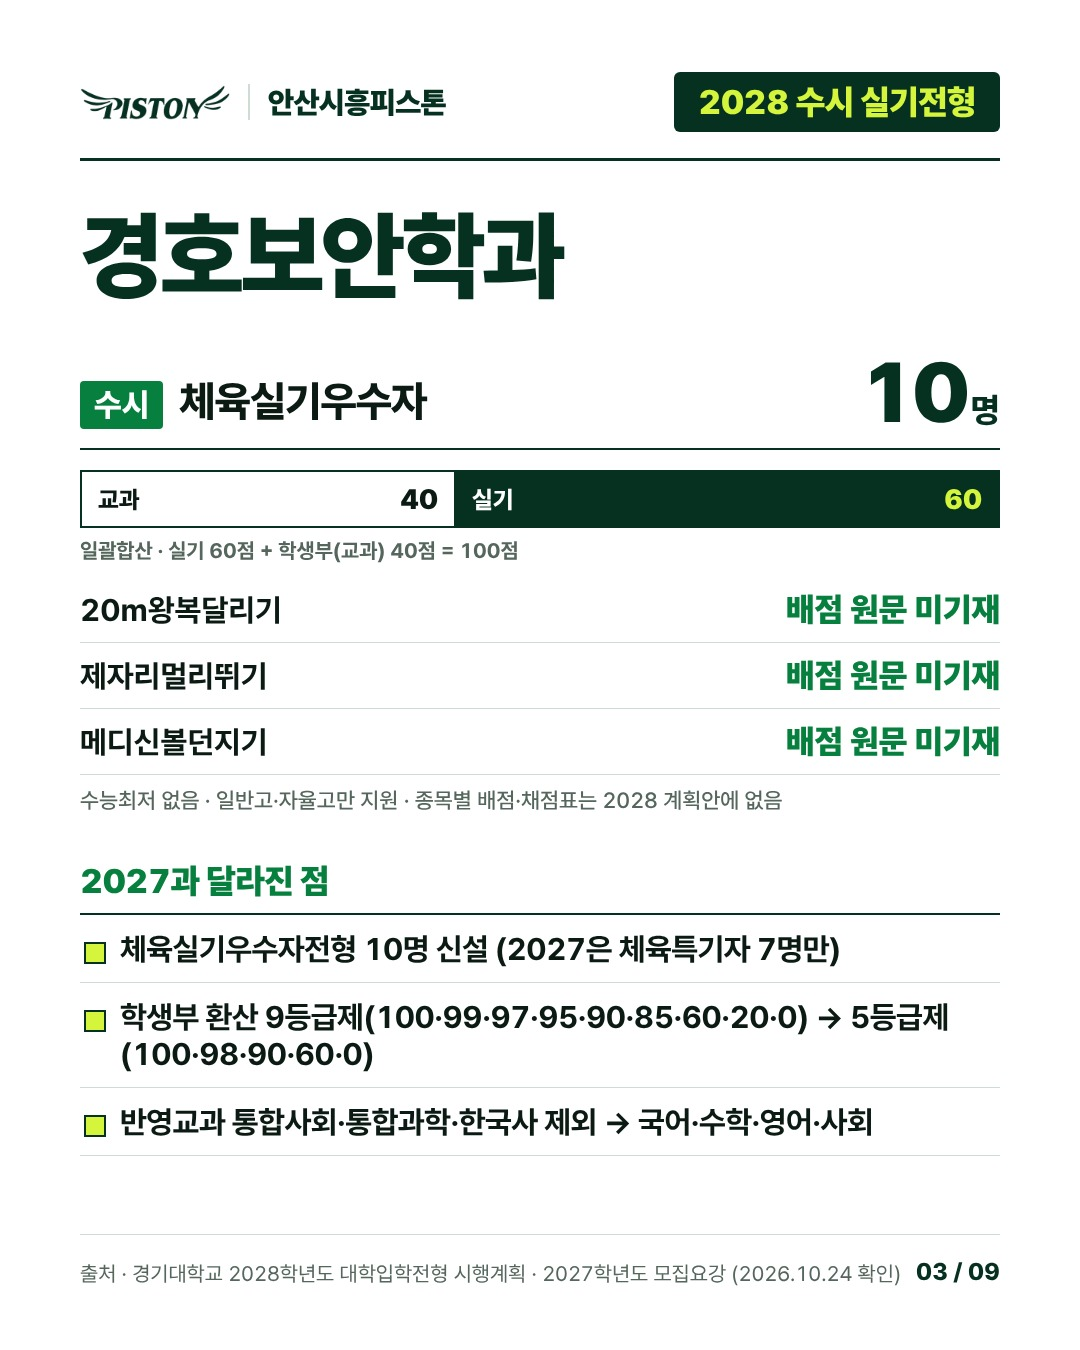
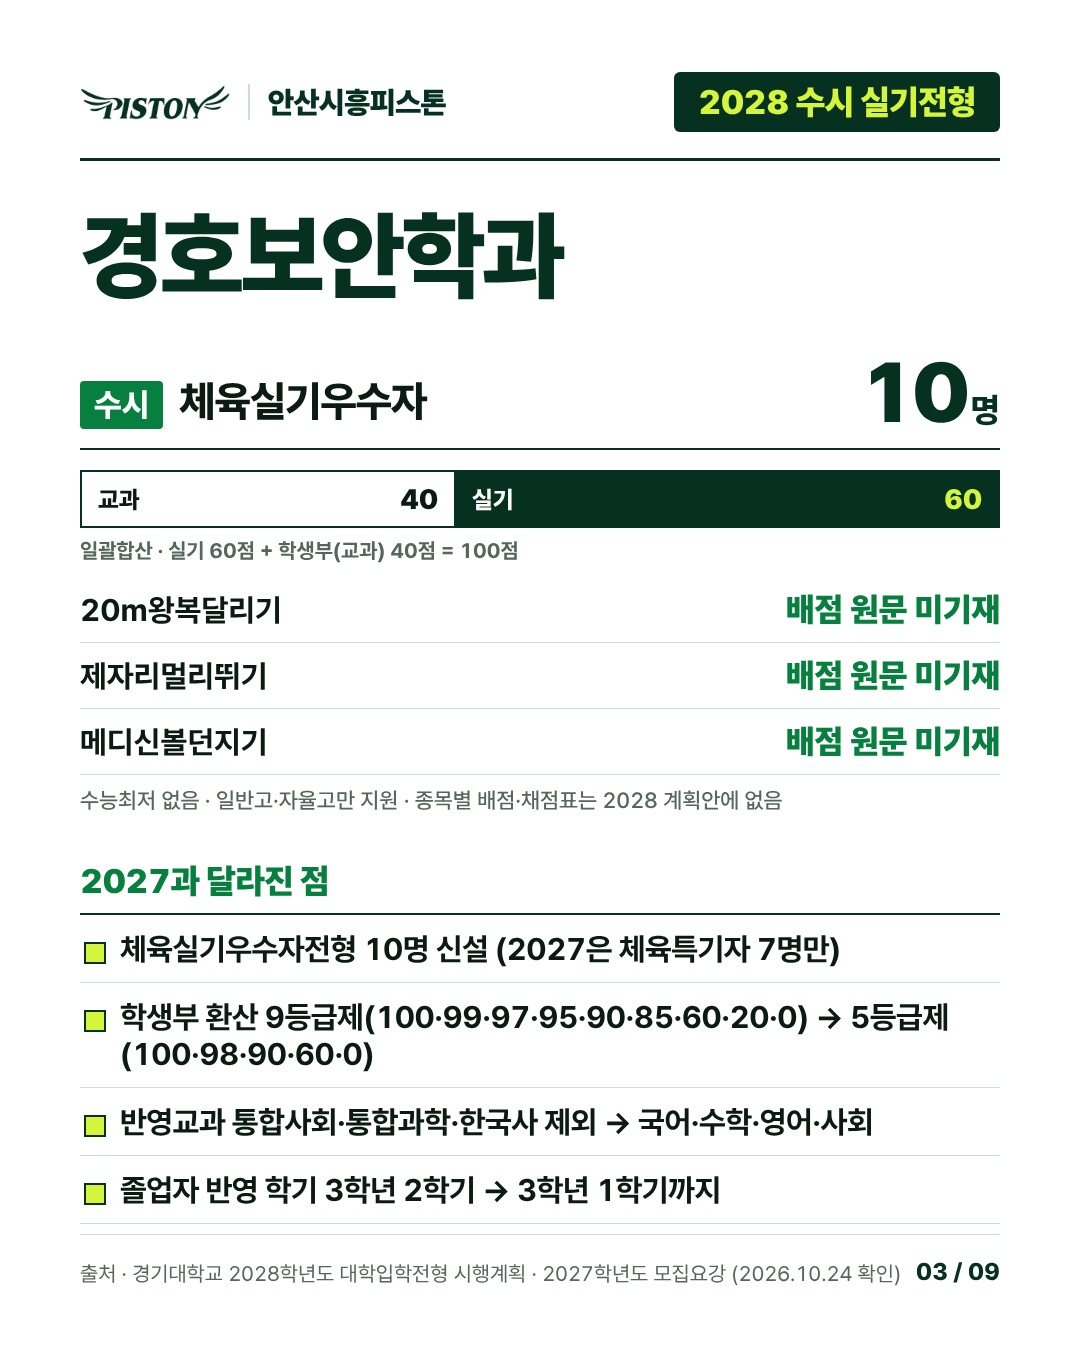
경기대 2028 카드 추가
Claude-Session: https://claude.ai/code/session_01ESvGERstcg2VfyZsGdWGeY

Changed region(s): [[0.0611, 0.8711, 0.6722, 0.9022]]

diff --git a/social/index.html b/social/index.html
@@ -5,6 +5,7 @@ section{border-top:2px solid #06301f;padding:18px 0 28px}h2{font-size:20px;margi
 <h1>2028 전형계획 카드 게시 일정</h1><p class="s">매일 19:00(한국시간)에 인스타 게시물·스토리로 자동 게시됩니다. 블로그 글은 각 세트의 blog.md.</p>
 <section><h2>2026-10-23 · 인천대학교 수시</h2><div class="m">보류 · <a href="out/inu-susi/blog.md">블로그 글</a> · <a href="out/inu-susi/caption.txt">캡션</a></div>
 <div class="row"><img src="out/inu-susi/post-1.jpg" loading="lazy" alt=""><img src="out/inu-susi/post-2.jpg" loading="lazy" alt=""><img src="out/inu-susi/post-3.jpg" loading="lazy" alt=""><img src="out/inu-susi/post-4.jpg" loading="lazy" alt=""><img src="out/inu-susi/post-5.jpg" loading="lazy" alt=""><img src="out/inu-susi/post-6.jpg" loading="lazy" alt=""><img src="out/inu-susi/post-7.jpg" loading="lazy" alt=""><img src="out/inu-susi/post-8.jpg" loading="lazy" alt=""><img src="out/inu-susi/story.jpg" loading="lazy" alt=""></div></section><section><h2>2026-10-23 · 인천대학교 정시</h2><div class="m">보류 · <a href="out/inu-jeongsi/blog.md">블로그 글</a> · <a href="out/inu-jeongsi/caption.txt">캡션</a></div>
-<div class="row"><img src="out/inu-jeongsi/post-1.jpg" loading="lazy" alt=""><img src="out/inu-jeongsi/post-2.jpg" loading="lazy" alt=""><img src="out/inu-jeongsi/post-3.jpg" loading="lazy" alt=""><img src="out/inu-jeongsi/post-4.jpg" loading="lazy" alt=""><img src="out/inu-jeongsi/post-5.jpg" loading="lazy" alt=""><img src="out/inu-jeongsi/post-6.jpg" loading="lazy" alt=""><img src="out/inu-jeongsi/post-7.jpg" loading="lazy" alt=""><img src="out/inu-jeongsi/story.jpg" loading="lazy" alt=""></div></section><section><h2>2026-10-23 · 가천대학교 수시</h2><div class="m">보류 · <a href="out/gachon-susi/blog.md">블로그 글</a> · <a href="out/gachon-susi/caption.txt">캡션</a></div>
-<div class="row"><img src="out/gachon-susi/post-1.jpg" loading="lazy" alt=""><img src="out/gachon-susi/post-2.jpg" loading="lazy" alt=""><img src="out/gachon-susi/post-3.jpg" loading="lazy" alt=""><img src="out/gachon-susi/post-4.jpg" loading="lazy" alt=""><img src="out/gachon-susi/post-5.jpg" loading="lazy" alt=""><img src="out/gachon-susi/post-6.jpg" loading="lazy" alt=""><img src="out/gachon-susi/post-7.jpg" loading="lazy" alt=""><img src="out/gachon-susi/story.jpg" loading="lazy" alt=""></div></section>
+<div class="row"><img src="out/inu-jeongsi/post-1.jpg" loading="lazy" alt=""><img src="out/inu-jeongsi/post-2.jpg" loading="lazy" alt=""><img src="out/inu-jeongsi/post-3.jpg" loading="lazy" alt=""><img src="out/inu-jeongsi/post-4.jpg" loading="lazy" alt=""><img src="out/inu-jeongsi/post-5.jpg" loading="lazy" alt=""><img src="out/inu-jeongsi/post-6.jpg" loading="lazy" alt=""><img src="out/inu-jeongsi/post-7.jpg" loading="lazy" alt=""><img src="out/inu-jeongsi/story.jpg" loading="lazy" alt=""></div></section><section><h2>2026-10-24 · 가천대학교 수시</h2><div class="m">보류 · <a href="out/gachon-susi/blog.md">블로그 글</a> · <a href="out/gachon-susi/caption.txt">캡션</a></div>
+<div class="row"><img src="out/gachon-susi/post-1.jpg" loading="lazy" alt=""><img src="out/gachon-susi/post-2.jpg" loading="lazy" alt=""><img src="out/gachon-susi/post-3.jpg" loading="lazy" alt=""><img src="out/gachon-susi/post-4.jpg" loading="lazy" alt=""><img src="out/gachon-susi/post-5.jpg" loading="lazy" alt=""><img src="out/gachon-susi/post-6.jpg" loading="lazy" alt=""><img src="out/gachon-susi/post-7.jpg" loading="lazy" alt=""><img src="out/gachon-susi/story.jpg" loading="lazy" alt=""></div></section><section><h2>2026-10-24 · 경기대학교 수시</h2><div class="m">보류 · <a href="out/kgu-susi/blog.md">블로그 글</a> · <a href="out/kgu-susi/caption.txt">캡션</a></div>
+<div class="row"><img src="out/kgu-susi/post-1.jpg" loading="lazy" alt=""><img src="out/kgu-susi/post-2.jpg" loading="lazy" alt=""><img src="out/kgu-susi/post-3.jpg" loading="lazy" alt=""><img src="out/kgu-susi/post-4.jpg" loading="lazy" alt=""><img src="out/kgu-susi/post-5.jpg" loading="lazy" alt=""><img src="out/kgu-susi/post-6.jpg" loading="lazy" alt=""><img src="out/kgu-susi/post-7.jpg" loading="lazy" alt=""><img src="out/kgu-susi/post-8.jpg" loading="lazy" alt=""><img src="out/kgu-susi/post-9.jpg" loading="lazy" alt=""><img src="out/kgu-susi/story.jpg" loading="lazy" alt=""></div></section>
 </main></body></html>

diff --git a/social/out/kgu-susi/factcheck.md b/social/out/kgu-susi/factcheck.md
@@ -53,3 +53,18 @@
 3. kgu.json 경호보안학과 changes 에 "졸업자 반영 학기 3학년 2학기 → 3학년 1학기까지" 추가 (post-3 높이 확인, blog.md 반영).
 4. (권고) caption.txt 해시태그 #체육교육과 삭제 (경기대 모집단위 아님).
 5. 수정 후 post-7·post-3 재렌더 및 재검수.
+
+## 재확인 (수정 항목만)
+
+| 항목 | 카드 값 | 원문 값 | 원문 위치 | 판정 |
+|---|---|---|---|---|
+| 석차백분율 표 머리글 (post-7, blog.md, kgu.json) | 0~10% 이내 / 10% 초과~34% 이내 / 34% 초과~66% 이내 / 66% 초과~90% 이내 / 90% 초과~100% | 동일 | 2028 [표2] | 일치, post-7 글자 잘림 없음 |
+| post-7 주석 (blog.md, kgu.json 동일) | 2028 졸업예정자: 진로선택 석차등급 반영·융합선택 미반영 / 2027년 이전 졸업자: 진로·융합 미반영 | 졸업예정자 진로 석차등급, 융합 미반영 / 졸업자 진로 미반영 (졸업자 열에 융합 없음) | 2028 성적 반영 방법 표 | 일치 |
+| post-3 변경점 | 졸업자 반영 학기 3학년 2학기 → 3학년 1학기까지 추가 | 졸업자 3-2 → 3-1 | 2028 주요변경사항 | 일치, 잘림 없음 |
+| caption.txt 인원·비율 | 체육학과 16 / 경호보안 10 (2028 신설) / 스포츠과학 20, 60:40 / 60:40 / 70:30 | 동일 | 2028 모집인원·전형방법 | 일치 |
+| caption.txt 수능최저·고교 | 수능최저 없음, 일반고·자율고 | 동일 | 2028 체육실기 / p.4 | 일치 |
+| caption.txt 해시태그·추측성 표현 | #체육교육과 삭제, 추측성 표현 없음 | - | - | 일치 |
+
+남은 문제 없음.
+
+최종 판정: 통과

diff --git a/social/out/kgu-susi/blog.md b/social/out/kgu-susi/blog.md
@@ -44,6 +44,7 @@
 - 체육실기우수자전형 10명 신설 (2027은 체육특기자 7명만)
 - 학생부 환산 9등급제(100·99·97·95·90·85·60·20·0) → 5등급제(100·98·90·60·0)
 - 반영교과 통합사회·통합과학·한국사 제외 → 국어·수학·영어·사회
+- 졸업자 반영 학기 3학년 2학기 → 3학년 1학기까지
 
 **스포츠과학부**
 - 인원 20명 · 반영비율 · 실기종목 2027과 동일
@@ -116,11 +117,11 @@
 
 **2028 계획안 · 2027년 이전 졸업자 (과목별 석차백분율)**
 
-| 석차백분율 | 10% 이내 | 34% 이내 | 66% 이내 | 90% 이내 | 100% |
+| 석차백분율 | 0~10% 이내 | 10% 초과~34% 이내 | 34% 초과~66% 이내 | 66% 초과~90% 이내 | 90% 초과~100% |
 | --- | --- | --- | --- | --- | --- |
 | 점수 | 100 | 98 | 90 | 60 | 0 |
 
-※ 2028: 3학년 1학기까지 반영, 학년별 가중치 없음, 이수학점 적용, 진로선택 석차등급 반영·융합선택 미반영
+※ 2028: 3학년 1학기까지 반영, 학년별 가중치 없음, 이수학점 적용 · 2028 졸업예정자: 진로선택 석차등급 반영·융합선택 미반영 / 2027년 이전 졸업자: 진로·융합 미반영
 ※ 2027: 공통·일반선택 90% + 진로선택 10% (진로 A 100·B 99·C 95), 반영교과 국어·수학·영어·통합사회·통합과학·한국사·사회
 
 [이미지: post-7.jpg]
